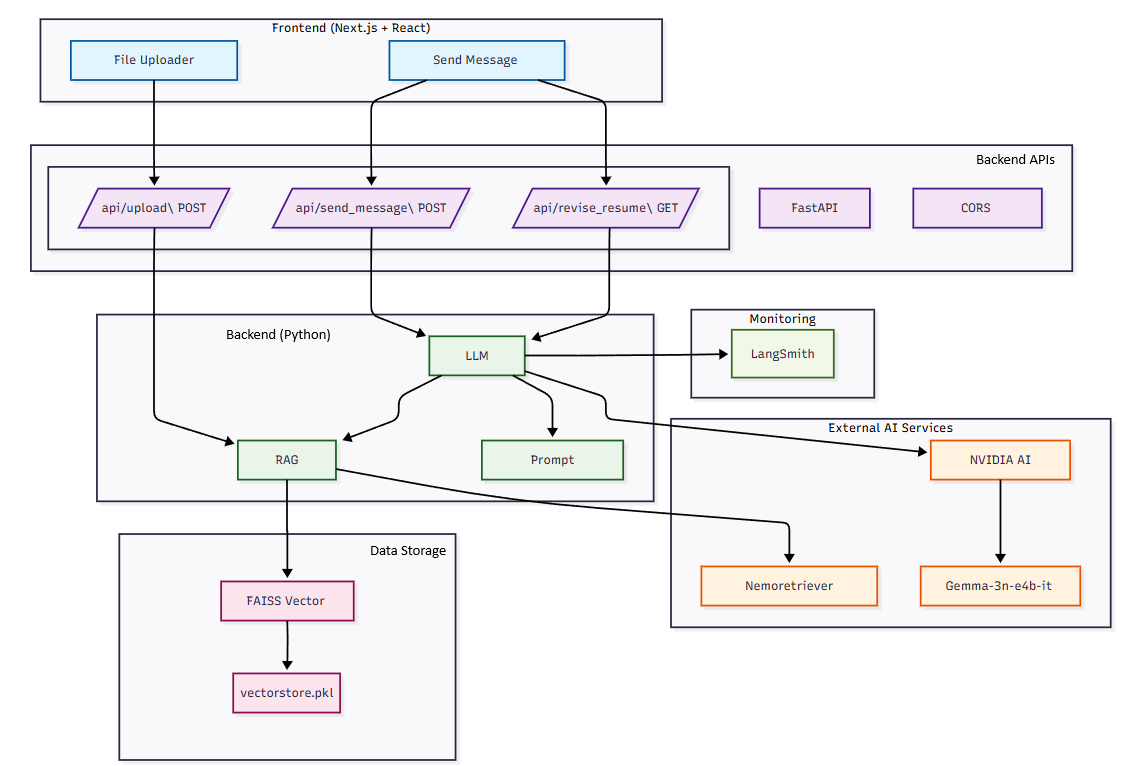
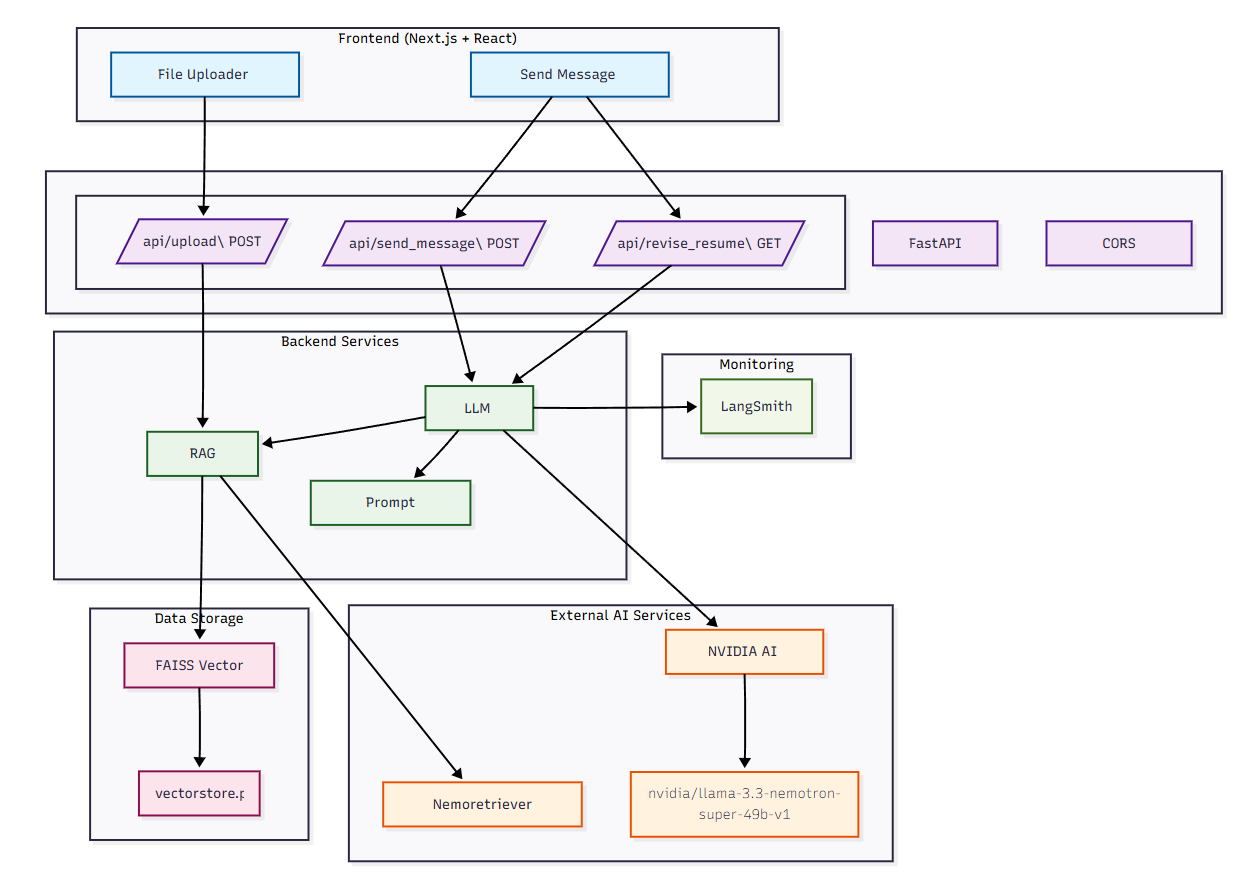
Doc: Update diagram, change model, add note about expanding the RAG search for multiple resumes

Changed region(s): [[0.0312, 0.03, 0.9991, 1.0], [0.9679, 0.5405, 0.9991, 0.5705]]

diff --git a/server/services/rag_service.py b/server/services/rag_service.py
@@ -61,6 +61,8 @@ def get_context():
         # Create a retriever
         retriever = vectorstore.as_retriever()
     # Return the entire document embedding (all documents in the vectorstore)
+    # TODO: Add additional resumes to the vectorstore based on role (ex. Staff engineer, Architect, Product Manager, etc.).
+    # TODO: You will update this retriever to only get resumes relevant to the job description.
     search_results = retriever.vectorstore.docstore._dict.values()
     # Format the context as a string
     context = "\n".join([doc.page_content for doc in search_results])

diff --git a/server/services/llm_service.py b/server/services/llm_service.py
@@ -4,7 +4,7 @@ from typing import Generator
 from services.rag_service import log_to_langsmith
 from services.rag_service import get_context
 from langchain_core.prompts import ChatPromptTemplate
-LLM_MODEL = "google/gemma-3n-e4b-it"
+LLM_MODEL = "nvidia/llama-3.3-nemotron-super-49b-v1"
 
 class LLMService:
     def __init__(self):
